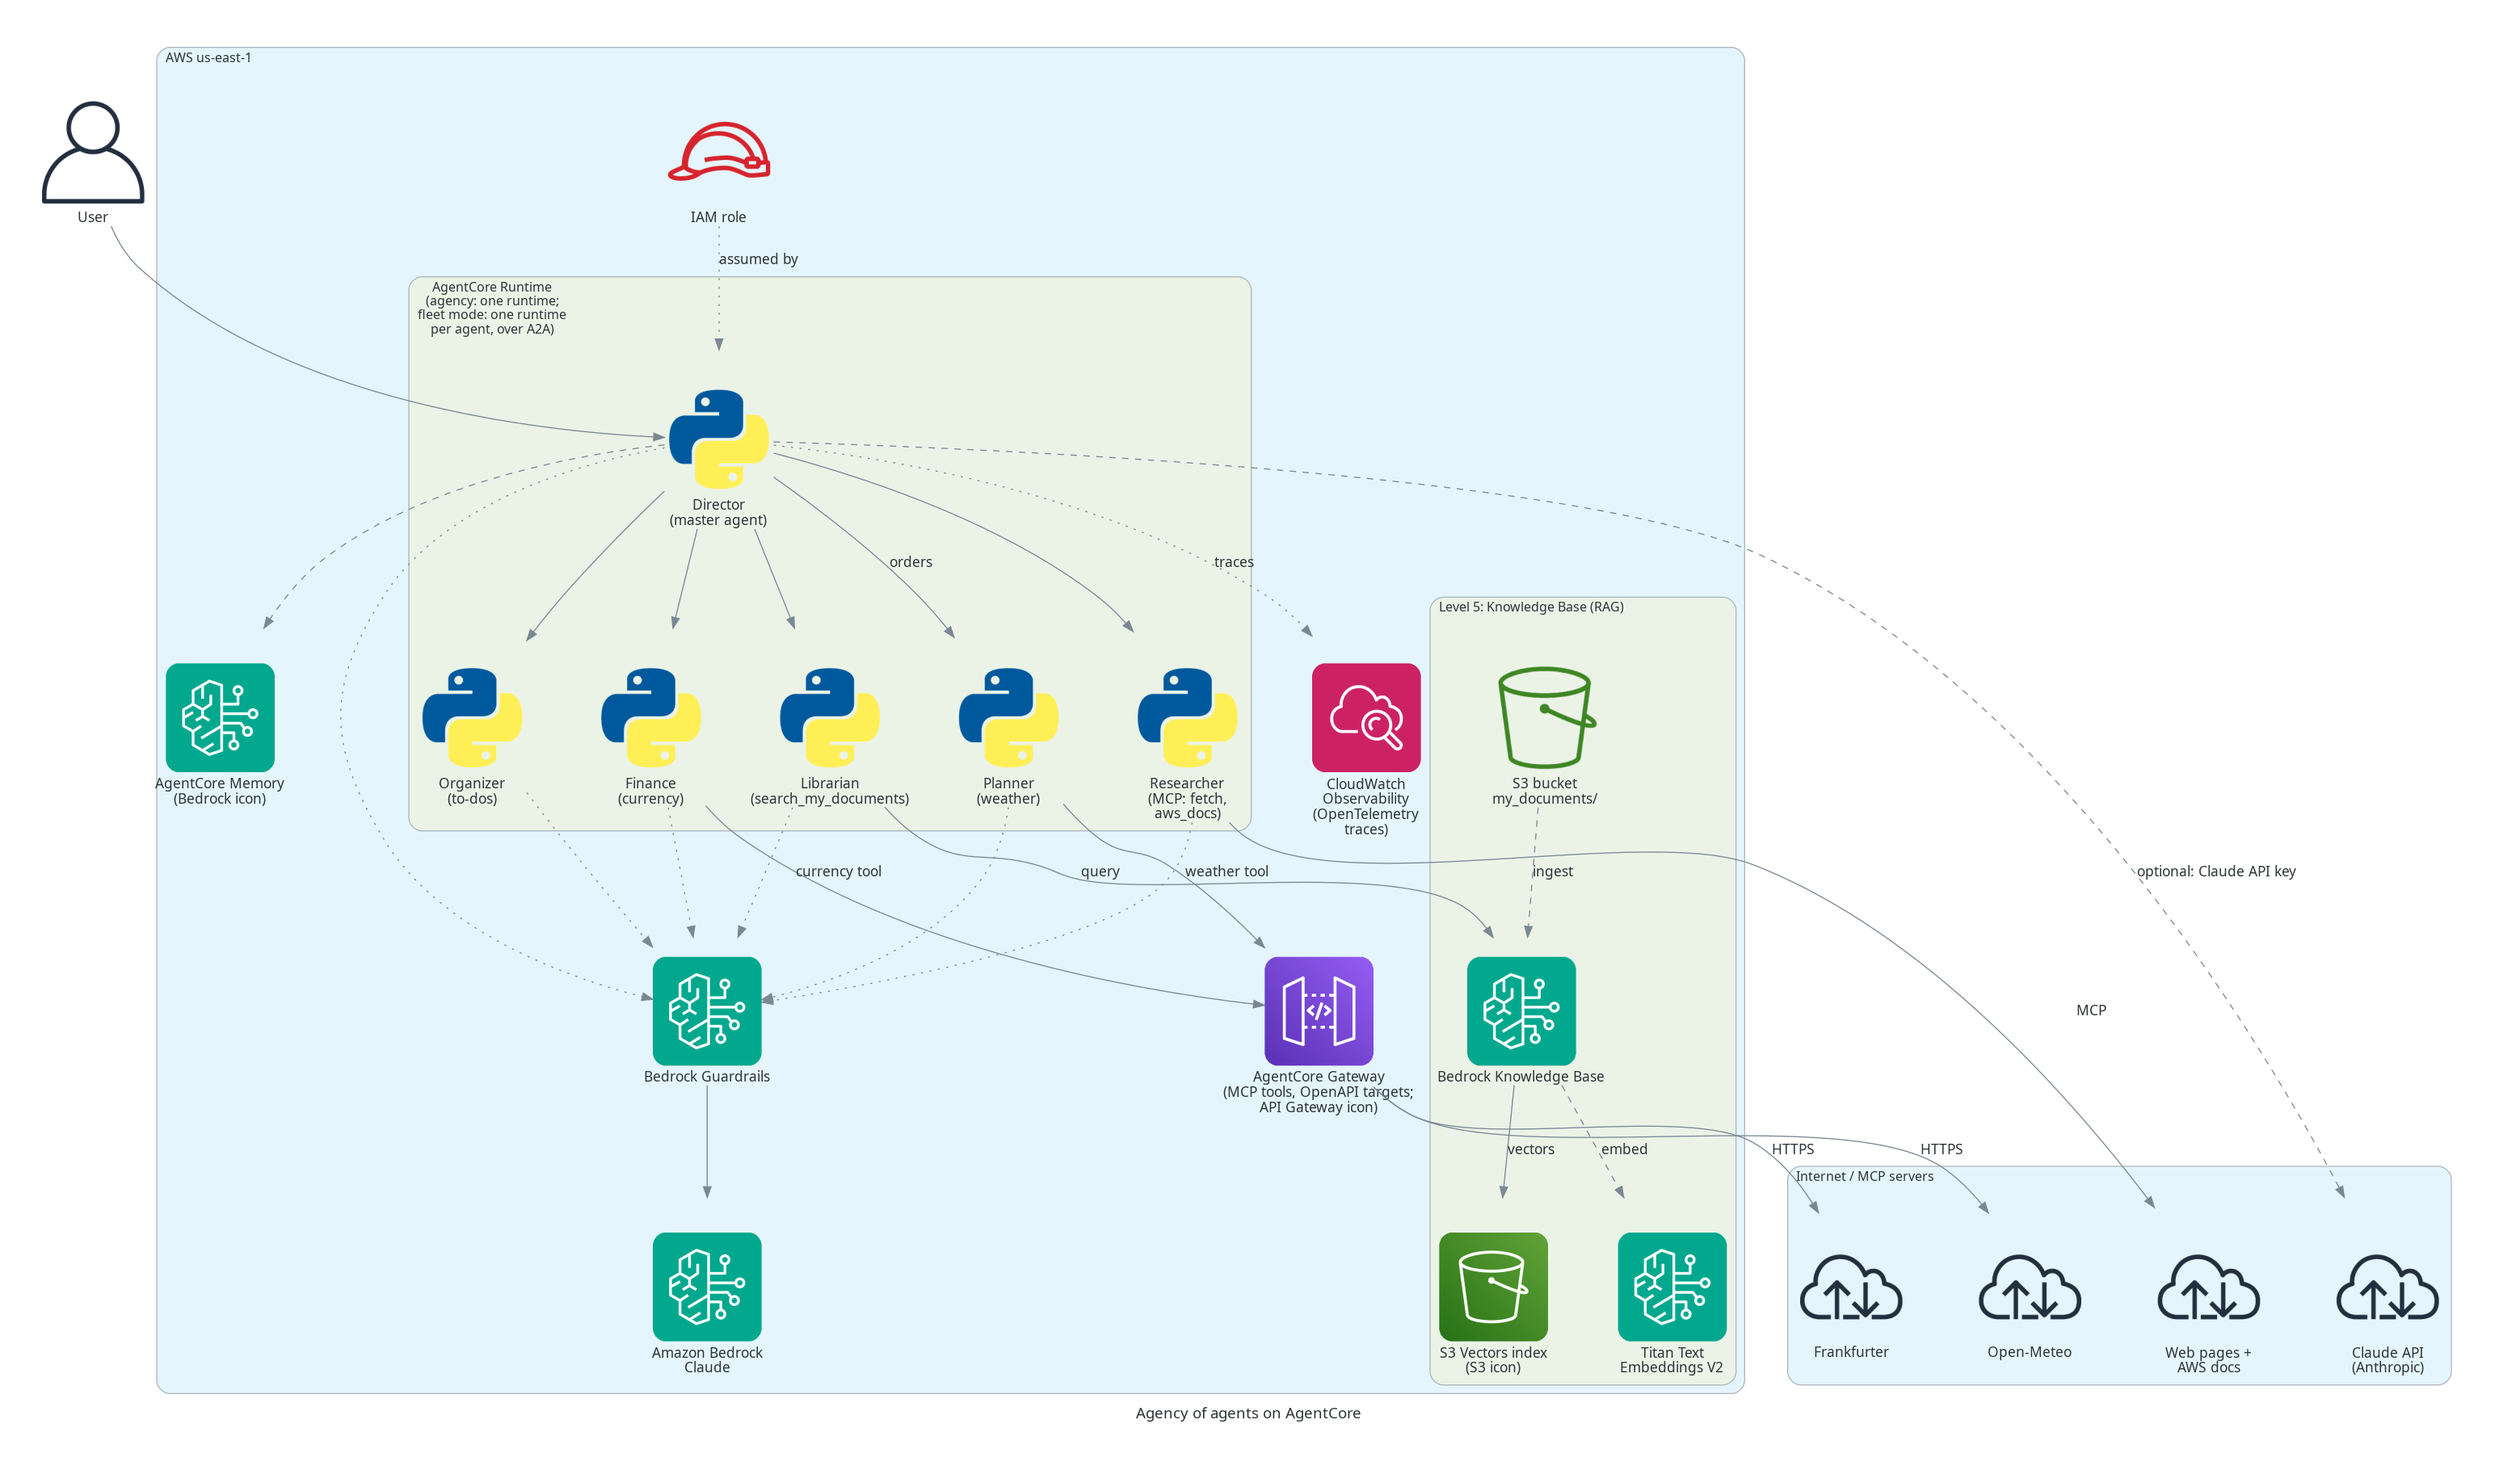
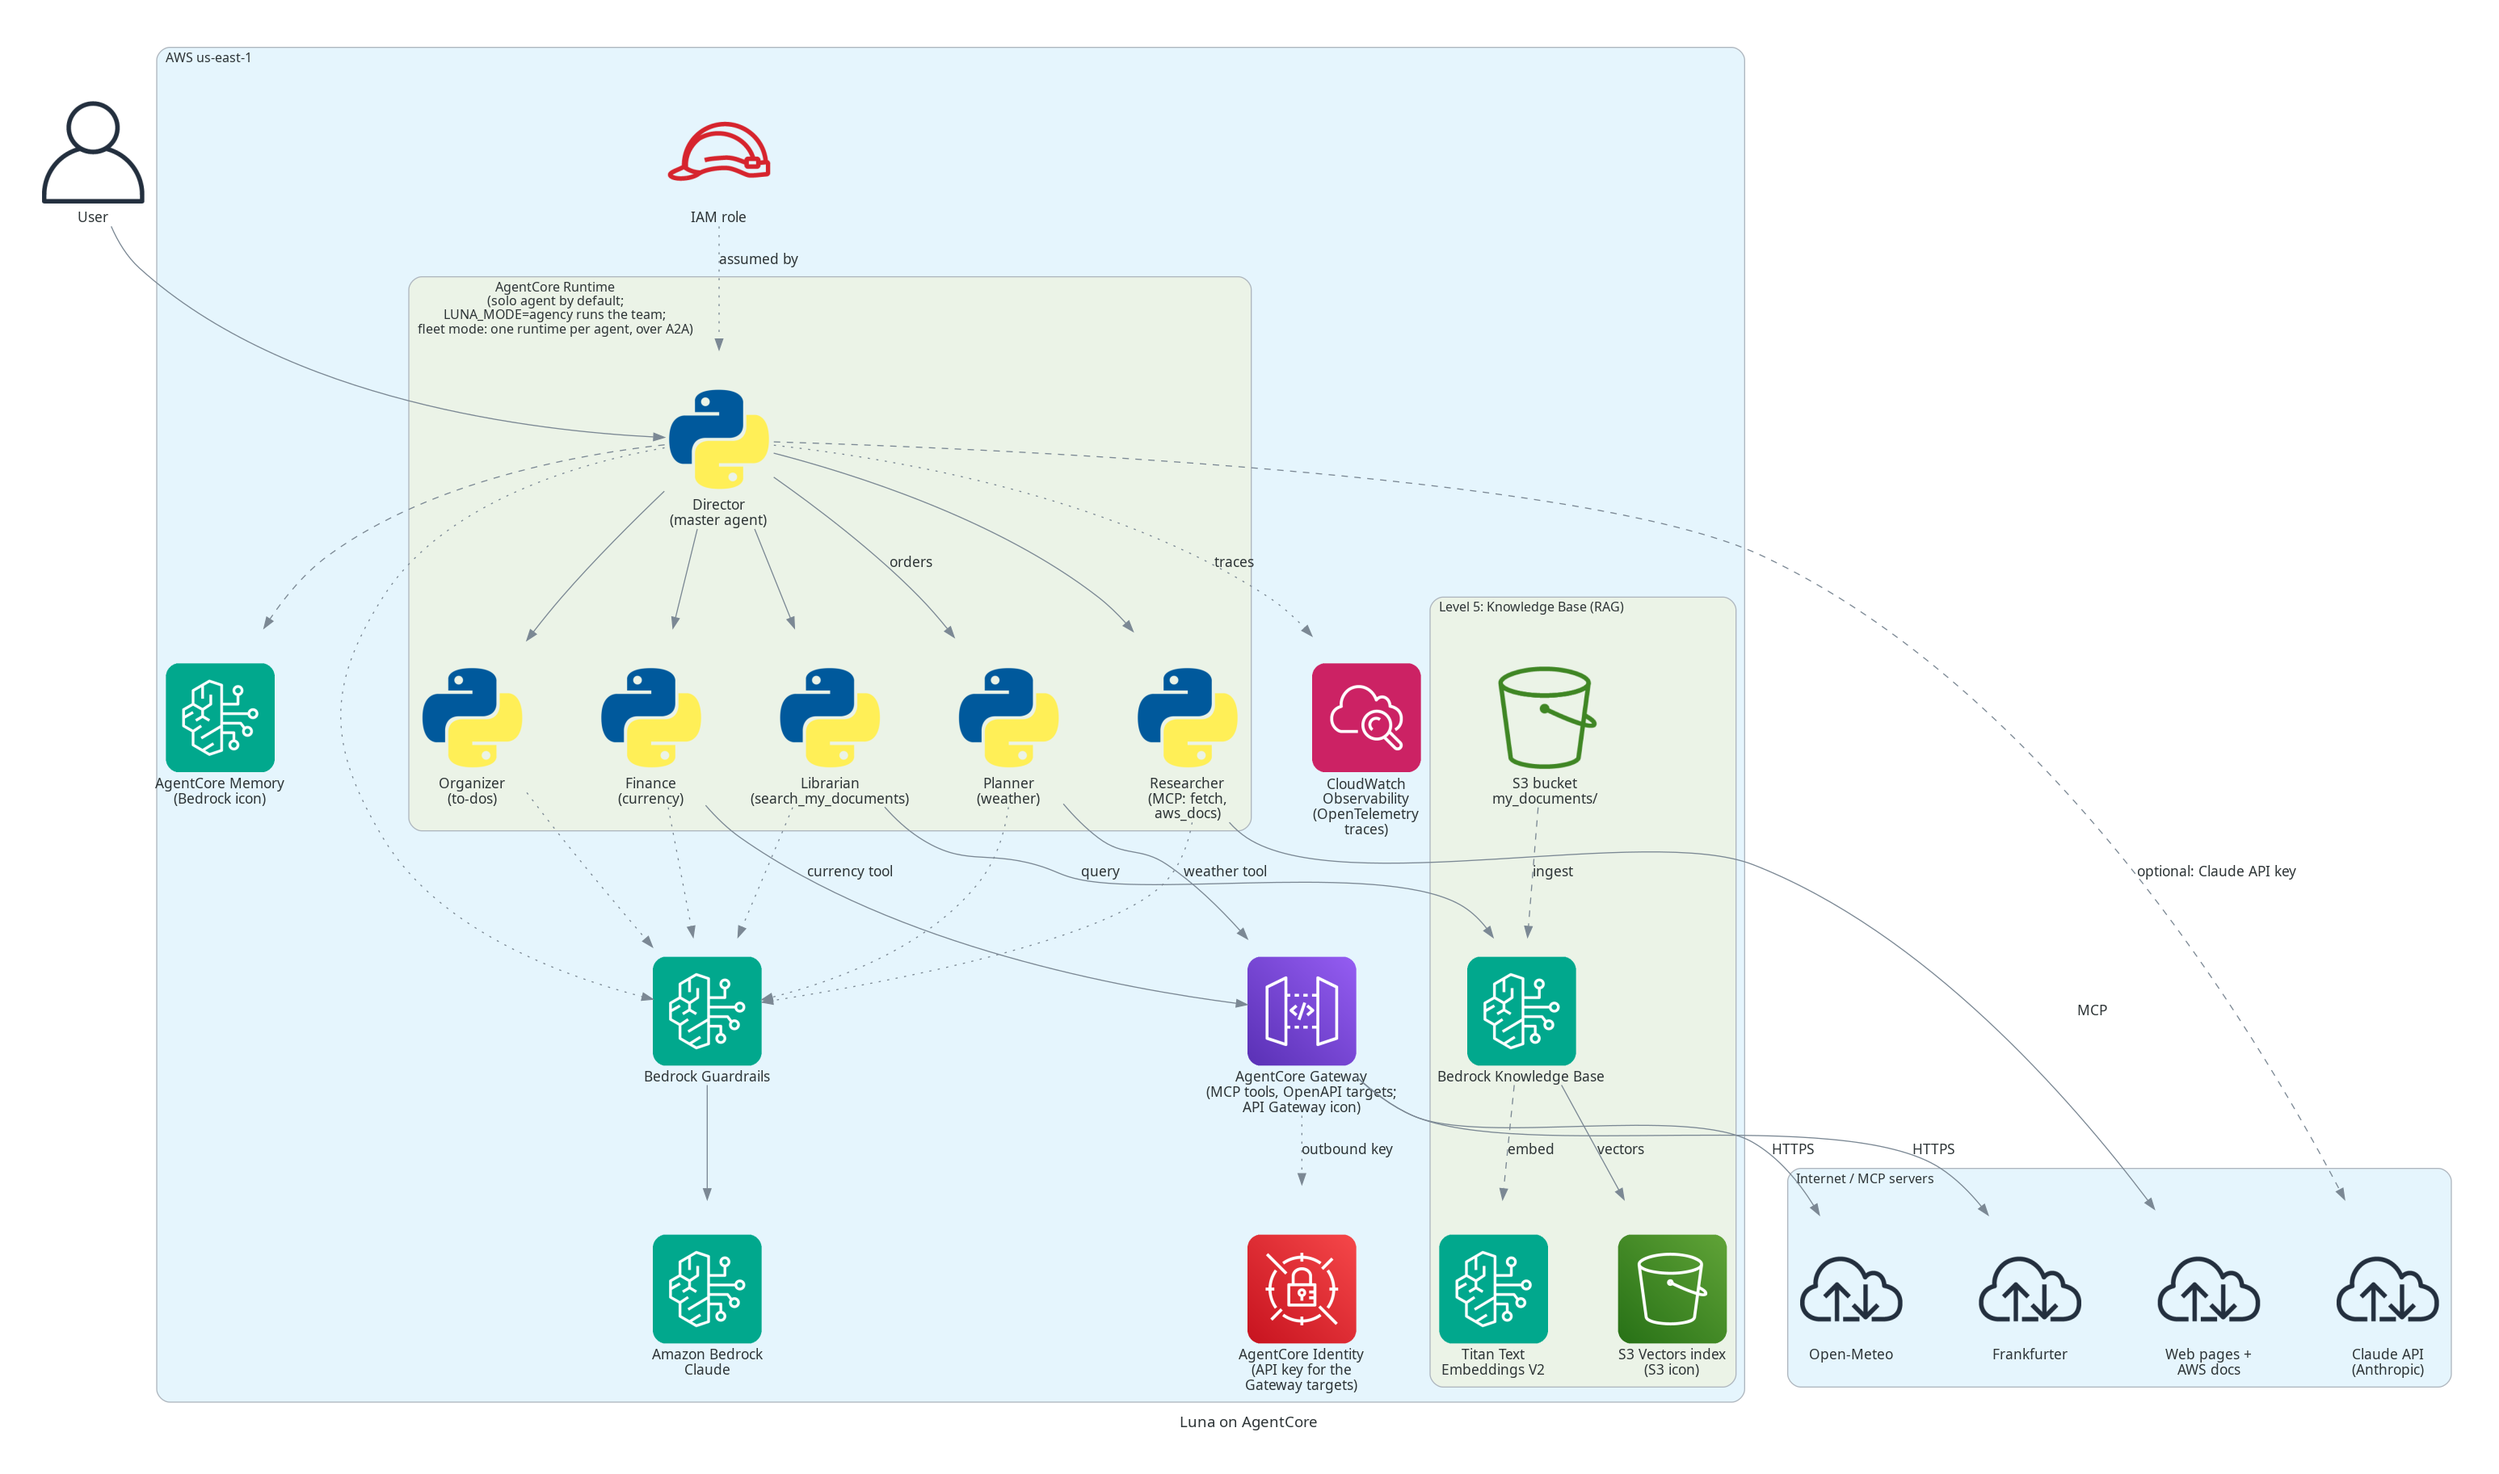
docs(diagrams): redraw the local and cloud diagrams for the current state
Local: the Office specialist, the files MCP server, the business folder, presets.
Cloud: solo by default (LUNA_MODE=agency runs the team), AgentCore Identity for the
Gateway's outbound key. Regenerated with the diagrams package and graphviz.

diff --git a/docs/diagrams/local.py b/docs/diagrams/local.py
@@ -4,6 +4,7 @@ from diagrams.aws.security import IAM
 from diagrams.aws.storage import SimpleStorageServiceS3Bucket, SimpleStorageServiceS3
 from diagrams.programming.flowchart import Document
 from diagrams.generic.storage import Storage
+from diagrams.generic.blank import Blank
 from diagrams.onprem.client import User
 from diagrams.onprem.network import Internet
 from diagrams.programming.language import Python
@@ -13,7 +14,8 @@ with Diagram("Run it on your laptop", filename="local", outformat="png", show=Fa
     with Cluster("Your laptop"):
         user = User("User")
         agent = Python("Strands agent (Python)\nLuna")
-        cfg = Document("config.yaml")
+        cfg = Document("config.yaml +\nyour preset")
+        biz = Storage("business/ folder\n(your CSV files)")
         todo = Storage("to-do list (JSON)")
         with Cluster("Agency mode (optional)"):
             director = Python("Director\n(master agent)")
@@ -22,8 +24,9 @@ with Diagram("Run it on your laptop", filename="local", outformat="png", show=Fa
             org = Python("Organizer\n(to-dos, time)")
             re_ = Python("Researcher\n(web, AWS docs)")
             lib = Python("Librarian\n(my documents)")
+            off = Python("Office\n(your files, exact counts)")
         with Cluster("MCP servers (local processes via uvx)"):
-            mcp = Python("fetch / aws_docs / time")
+            mcp = Python("time / fetch / files /\naws_docs / Gmail, Slack…\n(you choose)")
     with Cluster("AWS us-east-1"):
         iam = IAM("IAM credentials")
         bed = Bedrock("Amazon Bedrock\nClaude Haiku 4.5 /\nSonnet 4.6")
@@ -42,7 +45,7 @@ with Diagram("Run it on your laptop", filename="local", outformat="png", show=Fa
     cfg >> Edge(style="dotted") >> agent
     agent >> Edge(label="tool calls") >> todo
     agent >> Edge(label="optional", style="dashed") >> director
-    for s_ in (pl, fi, org, re_, lib):
+    for s_ in (pl, fi, org, re_, lib, off):
         director >> Edge(label="orders" if s_ is pl else "", dir="both") >> s_
     agent >> Edge(label="credentials") >> iam
     iam >> Edge(label="prompt + tools") >> bed
@@ -51,6 +54,8 @@ with Diagram("Run it on your laptop", filename="local", outformat="png", show=Fa
     agent >> Edge(label="tool calls") >> om
     agent >> fr
     agent >> Edge(label="optional: Claude API key", style="dashed") >> api
+    off >> Edge(label="one folder only", style="dashed") >> biz
+    off >> Edge(style="dashed") >> mcp
     re_ >> Edge(style="dashed") >> mcp
     org >> Edge(style="dashed") >> mcp
     lib >> Edge(label="search_my_documents") >> kb

diff --git a/docs/diagrams/cloud.py b/docs/diagrams/cloud.py
@@ -1,6 +1,6 @@
 from diagrams import Diagram, Cluster, Edge
 from diagrams.aws.ml import Bedrock
-from diagrams.aws.security import IAMRole
+from diagrams.aws.security import IAMRole, SecretsManager
 from diagrams.aws.network import APIGateway
 from diagrams.aws.storage import SimpleStorageServiceS3Bucket, SimpleStorageServiceS3
 from diagrams.aws.management import Cloudwatch
@@ -9,10 +9,10 @@ from diagrams.onprem.network import Internet
 from diagrams.programming.language import Python
 
 g = {"fontsize": "14", "pad": "0.5", "nodesep": "0.9", "ranksep": "0.7", "splines": "spline"}
-with Diagram("Agency of agents on AgentCore", filename="cloud", outformat="png", show=False, direction="TB", graph_attr=g):
+with Diagram("Luna on AgentCore", filename="cloud", outformat="png", show=False, direction="TB", graph_attr=g):
     user = User("User")
     with Cluster("AWS us-east-1"):
-        with Cluster("AgentCore Runtime\n(agency: one runtime;\nfleet mode: one runtime\nper agent, over A2A)"):
+        with Cluster("AgentCore Runtime\n(solo agent by default;\nLUNA_MODE=agency runs the team;\nfleet mode: one runtime per agent, over A2A)"):
             rec = Python("Director\n(master agent)")
             pl = Python("Planner\n(weather)")
             fi = Python("Finance\n(currency)")
@@ -26,6 +26,7 @@ with Diagram("Agency of agents on AgentCore", filename="cloud", outformat="png",
             tit = Bedrock("Titan Text\nEmbeddings V2")
             sv = SimpleStorageServiceS3("S3 Vectors index\n(S3 icon)")
             s3 = SimpleStorageServiceS3Bucket("S3 bucket\nmy_documents/")
+        ident = SecretsManager("AgentCore Identity\n(API key for the\nGateway targets)")
         gr = Bedrock("Bedrock Guardrails")
         bed = Bedrock("Amazon Bedrock\nClaude")
         cw = Cloudwatch("CloudWatch\nObservability\n(OpenTelemetry\ntraces)")
@@ -43,6 +44,7 @@ with Diagram("Agency of agents on AgentCore", filename="cloud", outformat="png",
         a >> Edge(style="dotted") >> gr
     gr >> bed
     rec >> Edge(style="dashed", label="optional: Claude API key") >> api
+    gw >> Edge(style="dotted", label="outbound key") >> ident
     pl >> Edge(label="weather tool") >> gw
     fi >> Edge(label="currency tool") >> gw
     gw >> Edge(label="HTTPS") >> om
